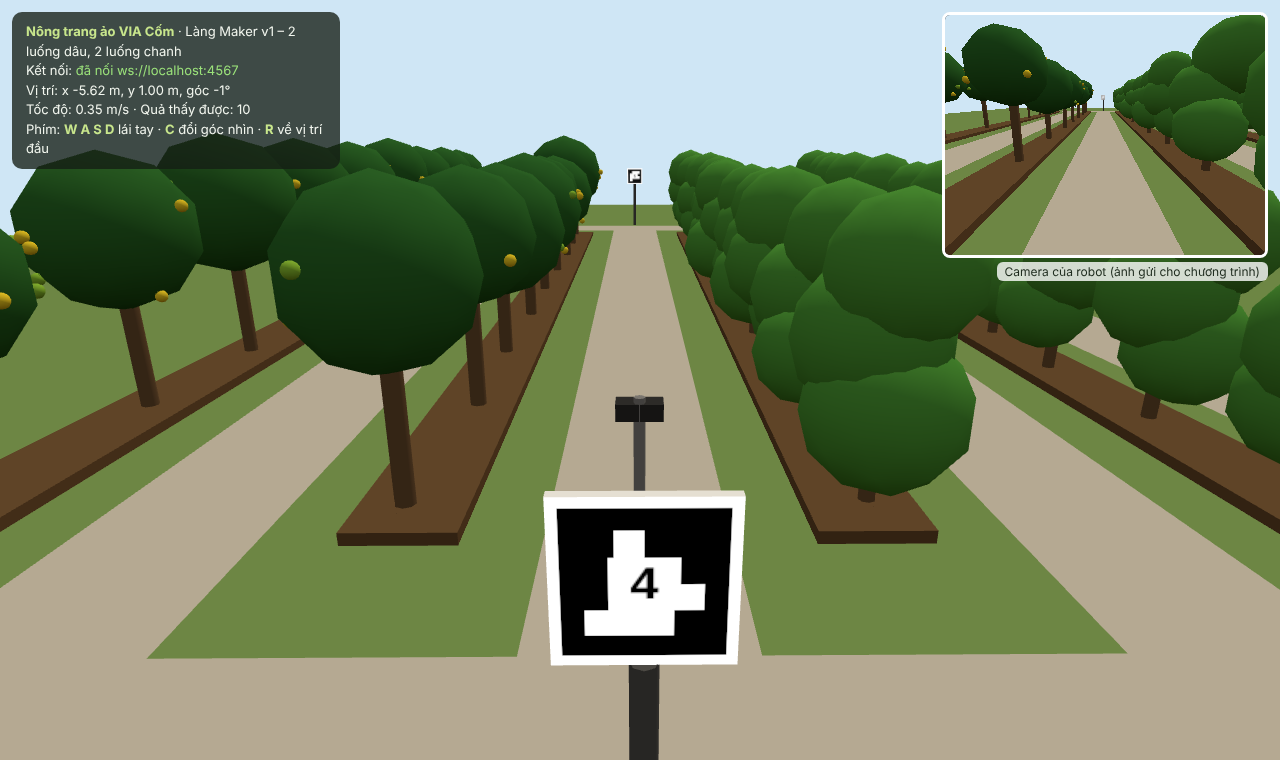
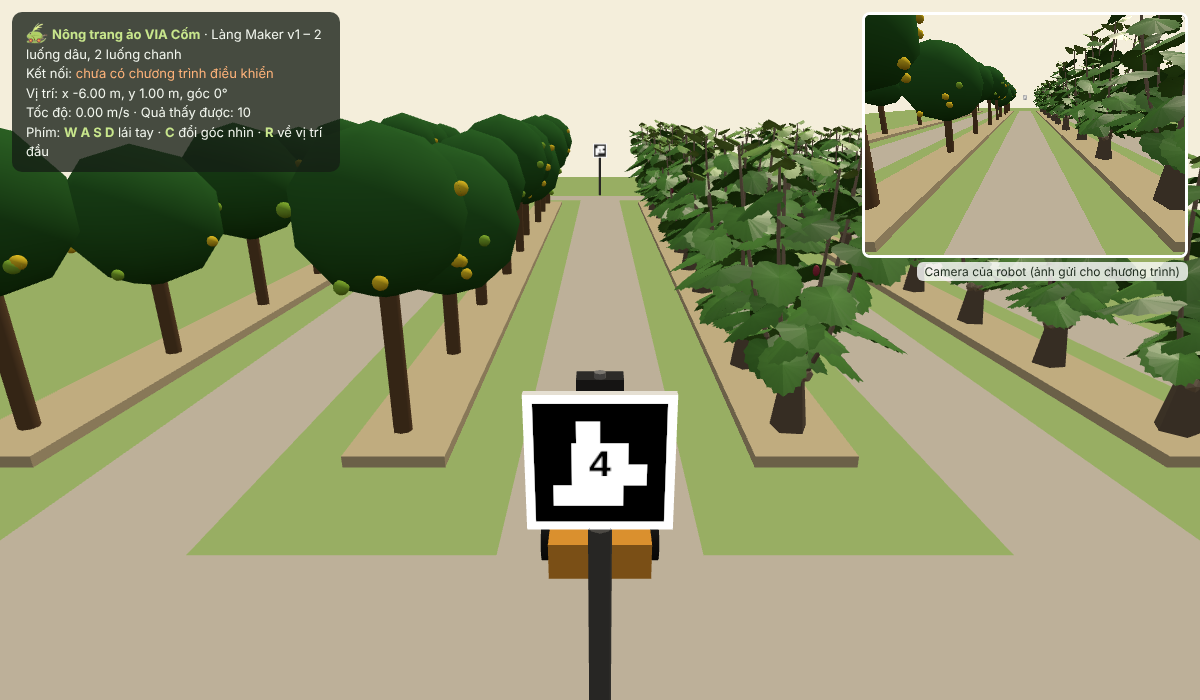
Nông trang ảo: cây dâu theo kiểu vườn dâu BLUESILK VR
Thay bụi dâu hình cầu bằng cây dâu low-poly lấy từ BLUESILK VR: gốc đốn thấp,
cành xoè, lá hình tim mép răng cưa mọc so le, lá non ở ngọn, quả dâu tím.
Cả vườn dâu vẽ bằng 4 InstancedMesh. Nền vườn đổi sang bảng màu pastel cùng tông.
Robot mẫu vẫn đi hết luống, lệch ngang dưới 3 cm.

Claude-Session: https://claude.ai/code/session_01P1Bo89Z93YM4XeHS9e6YVy

diff --git a/sim/web/farm.js b/sim/web/farm.js
@@ -8,6 +8,7 @@
 // toạ độ đi qua hàm P().
 
 import * as THREE from './vendor/three.module.min.js';
+import { mulberryPlant, mulberryLeaf, PALETTE } from './mulberry.js';
 
 const params = new URLSearchParams(location.search);
 const MAP_URL = params.get('map') || '../maps/lang_maker_v1.json';
@@ -45,7 +46,7 @@ const canvas = document.getElementById('view');
 const renderer = new THREE.WebGLRenderer({ canvas, antialias: true, preserveDrawingBuffer: true });
 renderer.setPixelRatio(Math.min(devicePixelRatio, 2));
 const scene = new THREE.Scene();
-scene.background = new THREE.Color(0xcfe6f5);
+scene.background = new THREE.Color(PALETTE.skyHorizon);
 scene.add(new THREE.HemisphereLight(0xffffff, 0x8a7a5a, 1.1));
 const sun = new THREE.DirectionalLight(0xfff2d6, 1.6);
 sun.position.set(6, 12, 4);
@@ -96,18 +97,18 @@ function tagTexture(id) {
 function buildFarm(map) {
   world.map = map;
   const [sx, sy] = map.size;
-  const ground = new THREE.Mesh(new THREE.PlaneGeometry(sx + 8, sy + 8), new THREE.MeshLambertMaterial({ color: 0x7a9a55 }));
+  const ground = new THREE.Mesh(new THREE.PlaneGeometry(sx + 8, sy + 8), new THREE.MeshLambertMaterial({ color: PALETTE.grass }));
   ground.rotation.x = -Math.PI / 2; scene.add(ground);
 
   for (const p of map.paths || []) { // lối đi nền cứng
     const [x0, y0] = p.from, [x1, y1] = p.to;
     const len = Math.hypot(x1 - x0, y1 - y0);
-    const m = new THREE.Mesh(new THREE.PlaneGeometry(len + p.width, p.width), new THREE.MeshLambertMaterial({ color: 0xc9c2b2 }));
+    const m = new THREE.Mesh(new THREE.PlaneGeometry(len + p.width, p.width), new THREE.MeshLambertMaterial({ color: PALETTE.path }));
     m.rotation.x = -Math.PI / 2; m.rotation.z = Math.atan2(y1 - y0, x1 - x0);
     m.position.copy(P((x0 + x1) / 2, (y0 + y1) / 2, 0.005)); scene.add(m);
   }
 
-  const trunks = [], leavesLemon = [], leavesMul = [], ripe = [], unripe = [], soil = [];
+  const trunks = [], leavesLemon = [], leavesMul = [], ripe = [], unripe = [], soil = [], mulberries = [];
   const r = rng(2026);
   for (const row of map.rows || []) {
     const [x0, y0] = row.start, [x1, y1] = row.end;
@@ -126,14 +127,17 @@ function buildFarm(map) {
           const fx = x + Math.cos(az) * Math.cos(el) * fr, fy = y + Math.sin(az) * Math.cos(el) * fr, fz = h + Math.sin(el) * fr;
           (r() > 0.35 ? ripe : unripe).push({ x: fx, y: fy, z: fz, r: 0.035 });
         }
-      } else { // dâu: bụi cao, nhiều tầng lá
-        trunks.push({ x, y, h: 0.5, r: 0.04 });
-        for (let j = 0; j < 3; j++) leavesMul.push({ x: x + (r() - 0.5) * 0.2, y: y + (r() - 0.5) * 0.2, z: 0.5 + j * 0.3, r: 0.30 + r() * 0.08 });
+      } else { // dâu: gốc đốn thấp, cành xoè, lá hình tim (kiểu vườn dâu BLUESILK)
+        const plant = mulberryPlant(r);
+        mulberries.push({ x, y, rot: r() * Math.PI * 2, plant });
+        world.obstacles.push({ x, y, r: 0.10 });
+        // vùng tán lá dùng để xét che khuất khi gắn nhãn quả
+        for (let j = 0; j < 2; j++) leavesMul.push({ x, y, z: 0.75 + j * 0.45, r: 0.32 });
       }
     }
   }
 
-  instanced(new THREE.BoxGeometry(1, 0.06, 0.5), 0x6b4f32, soil, (s, m) => {
+  instanced(new THREE.BoxGeometry(1, 0.06, 0.5), PALETTE.earthDark, soil, (s, m) => {
     m.compose(P(s.x, s.y, 0.03), new THREE.Quaternion().setFromAxisAngle(new THREE.Vector3(0, 1, 0), s.a), new THREE.Vector3(s.len + 0.6, 1, 1));
   });
   instanced(new THREE.CylinderGeometry(1, 1, 1, 8), 0x6e5338, trunks, (t, m) => {
@@ -142,7 +146,7 @@ function buildFarm(map) {
   const ball = new THREE.IcosahedronGeometry(1, 1);
   const place = (s, m) => m.compose(P(s.x, s.y, s.z), new THREE.Quaternion(), new THREE.Vector3(s.r, s.r, s.r));
   instanced(ball, 0x2f6b2c, leavesLemon, place);
-  instanced(ball, 0x4f9a3a, leavesMul, place);
+  drawMulberries(mulberries);
   instanced(new THREE.SphereGeometry(1, 10, 8), 0xf3d32b, ripe, place);
   instanced(new THREE.SphereGeometry(1, 10, 8), 0x8fc43a, unripe, place);
 
@@ -164,6 +168,41 @@ function buildFarm(map) {
     world.tags.push({ id: t.id, x, y });
   }
   document.getElementById('mapname').textContent = map.name || '';
+}
+
+// Vẽ cả vườn dâu bằng 4 InstancedMesh: đoạn cành, u gốc, lá, quả.
+function drawMulberries(list) {
+  if (!list.length) return;
+  const segs = [], knobs = [], leaves = [], fruits = [];
+  const m = new THREE.Matrix4(), base = new THREE.Matrix4(), q = new THREE.Quaternion();
+  const up = new THREE.Vector3(0, 1, 0), d = new THREE.Vector3(), v = new THREE.Vector3(), s = new THREE.Vector3();
+  for (const it of list) {
+    base.compose(P(it.x, it.y, 0.06), q.setFromAxisAngle(up, it.rot), s.set(1, 1, 1));
+    for (const g of it.plant.segs) segs.push({ g, base: base.clone() });
+    for (const k of it.plant.knobs) knobs.push({ k, base: base.clone() });
+    for (const l of it.plant.leaves) leaves.push({ l, base: base.clone() });
+    for (const f of it.plant.fruits) fruits.push({ f, base: base.clone() });
+  }
+  const mat = opts => new THREE.MeshStandardMaterial({ flatShading: true, roughness: 0.9, metalness: 0, ...opts });
+  const fill = (geo, material, items, place, cast = true) => {
+    const mesh = new THREE.InstancedMesh(geo, material, items.length);
+    const c = new THREE.Color();
+    items.forEach((it, i) => { place(it, m); mesh.setMatrixAt(i, m); mesh.setColorAt(i, c.set(it.color)); });
+    mesh.castShadow = cast; scene.add(mesh); return mesh;
+  };
+  // cành: trụ đơn vị (cao 1, từ y=0 tới y=1) kéo giữa hai điểm, thon dần
+  const rod = new THREE.CylinderGeometry(0.6, 1, 1, 5); rod.translate(0, 0.5, 0);
+  fill(rod, mat({}), segs.map(x => ({ ...x, color: x.g.color })), (x, out) => {
+    const a = new THREE.Vector3(...x.g.p0), b = new THREE.Vector3(...x.g.p1);
+    d.subVectors(b, a); const len = d.length();
+    out.compose(a, new THREE.Quaternion().setFromUnitVectors(up, d.normalize()), v.set(x.g.r0, len, x.g.r0)).premultiply(x.base);
+  });
+  fill(new THREE.IcosahedronGeometry(1, 0), mat({}), knobs.map(x => ({ ...x, color: x.k.color })), (x, out) =>
+    out.compose(new THREE.Vector3(...x.k.p), q.identity(), v.setScalar(x.k.s)).premultiply(x.base));
+  fill(mulberryLeaf(), mat({ vertexColors: true, roughness: 0.42, side: THREE.DoubleSide }), leaves.map(x => ({ ...x, color: x.l.color })), (x, out) =>
+    out.compose(new THREE.Vector3(...x.l.p), x.l.q, v.setScalar(x.l.s)).premultiply(x.base));
+  fill(new THREE.IcosahedronGeometry(1, 1), mat({ roughness: 0.6 }), fruits.map(x => ({ ...x, color: x.f.color })), (x, out) =>
+    out.compose(new THREE.Vector3(...x.f.p), q.identity(), v.set(0.016, 0.027, 0.016)).premultiply(x.base));
 }
 
 // ---------------------------------------------------------------- robot

diff --git a/sim/web/mulberry.js b/sim/web/mulberry.js
@@ -1,0 +1,101 @@
+// Cây dâu tằm low-poly cho nông trang ảo VIA Cốm.
+// Kiểu dáng lấy từ vườn dâu của BLUESILK VR (github.com/tuanln/bluesilk-vr, src/world/style.js):
+// gốc đốn thấp sát đất, 5–7 cành mảnh xoè như bình hoa, lá to hình tim mép răng cưa
+// mọc so le dọc cành, ngọn có 2 lá non dựng lên, vài quả dâu tím đỏ.
+//
+// Mọi toạ độ ở đây là hệ three.js cục bộ của một gốc (y lên trên, gốc cây tại 0,0,0).
+// Hàm trả về danh sách đoạn cành, lá, quả để farm.js vẽ chung bằng InstancedMesh
+// cho cả vườn: hàng nghìn lá chỉ tốn một lệnh vẽ.
+
+import * as THREE from './vendor/three.module.min.js';
+
+export const MULBERRY_COLORS = {
+  bark: 0x8e7d6b, barkDark: 0x6f604f, knob: 0x9c8a74,
+  leaf: 0x5c9c42, leafDark: 0x467f33, leafYoung: 0x8fc25e,
+  fruit: [0x4f1b38, 0x7e2344, 0xa8364f],
+};
+
+// Bảng màu pastel của BLUESILK, dùng cho nền vườn để cùng tông với cây dâu.
+export const PALETTE = {
+  grass: 0xa9c77a, grassDark: 0x8db064, earth: 0xe9e1c7, earthDark: 0xd6c59c,
+  path: 0xd2cabb, skyHorizon: 0xf4eedb, leaf: 0x7faf5a, leafDark: 0x6e9e4c,
+};
+
+// Lá dâu: gốc lõm hình tim, hai thuỳ tròn, mép răng cưa, mũi nhọn; dài `length`.
+// Mặt lá nằm trong mặt xy (cuống ở gốc toạ độ, mũi lá hướng +y), gân giữa gập nhẹ,
+// mũi rủ. Màu đỉnh sáng ở gân giữa, sẫm dần ra mép.
+export function mulberryLeaf({ length = 0.26 } = {}) {
+  const half = [[0, 0.02], [0.04, -0.012], [0.075, 0.004], [0.092, 0.045], [0.088, 0.095],
+    [0.07, 0.14], [0.045, 0.178], [0.02, 0.205], [0, 0.225]];
+  const right = [half[0]];
+  for (let k = 1; k < half.length; k++) {
+    const [ax, ay] = half[k - 1], [bx, by] = half[k];
+    if (k > 1 && k < half.length - 1) { // một răng cưa chĩa về phía mũi lá
+      const dx = bx - ax, dy = by - ay, L = Math.hypot(dx, dy) || 1;
+      right.push([ax + dx * 0.65 + (dy / L) * 0.012, ay + dy * 0.65 - (dx / L) * 0.012]);
+    }
+    right.push([bx, by]);
+  }
+  const loop = [...right, ...right.slice(1, -1).reverse().map(([x, y]) => [-x, y])];
+  const k = length / 0.225, c = [0, 0.09];
+  const lift = (x, y) => [x * k, y * k + 0.03, (-Math.abs(x) * 0.35 - (y / 0.225) ** 2 * 0.035) * k];
+  const pos = [], col = [];
+  for (let i = 0; i < loop.length; i++) {
+    const a = loop[i], b = loop[(i + 1) % loop.length];
+    for (const [[x, y], shade] of [[c, 1], [a, 0.8], [b, 0.8]]) { pos.push(...lift(x, y)); col.push(shade, shade, shade); }
+  }
+  const g = new THREE.BufferGeometry();
+  g.setAttribute('position', new THREE.Float32BufferAttribute(pos, 3));
+  g.setAttribute('color', new THREE.Float32BufferAttribute(col, 3));
+  g.computeVertexNormals();
+  return g;
+}
+
+// Một gốc dâu. `r` là hàm ngẫu nhiên tất định (cùng seed thì cùng cây).
+// `spreadScale` thu hẹp tán để cây không lấn ra lối đi của robot.
+export function mulberryPlant(r, { height = 1.5, spreadScale = 0.7 } = {}) {
+  const C = MULBERRY_COLORS, segs = [], knobs = [], leaves = [], fruits = [];
+  const stumpH = 0.24 + r() * 0.06;
+  segs.push({ p0: [0, 0, 0], p1: [0, stumpH, 0], r0: 0.1, r1: 0.07, color: C.barkDark });
+  for (let i = 0; i < 4; i++) {
+    const a = (i / 4) * Math.PI * 2 + r();
+    knobs.push({ p: [Math.cos(a) * 0.05, stumpH - 0.01 + r() * 0.03, Math.sin(a) * 0.05], s: 0.04 + r() * 0.015, color: C.knob });
+  }
+  const n = 5 + Math.floor(r() * 3);
+  const bez = (a, b, c, t) => a.map((v, i) => (1 - t) ** 2 * v + 2 * (1 - t) * t * b[i] + t * t * c[i]);
+  let fruitsLeft = 4 + Math.floor(r() * 3);
+  for (let s = 0; s < n; s++) {
+    const a = (s / n) * Math.PI * 2 + (r() - 0.5) * 0.7;
+    const ca = Math.cos(a), sa = Math.sin(a);
+    const spread = (0.28 + r() * 0.26) * spreadScale, H = height * (0.8 + r() * 0.2);
+    const p0 = [ca * 0.05, stumpH, sa * 0.05];
+    const p1 = [ca * spread * 0.75, stumpH + (H - stumpH) * 0.3, sa * spread * 0.75];
+    const p2 = [ca * spread, H, sa * spread];
+    const SEG = 4;
+    for (let k = 0; k < SEG; k++) {
+      const t0 = k / SEG, t1 = (k + 1) / SEG;
+      segs.push({ p0: bez(p0, p1, p2, t0), p1: bez(p0, p1, p2, t1), r0: 0.017 - t0 * 0.009, r1: 0.017 - t1 * 0.009, color: k ? C.bark : C.barkDark });
+    }
+    // lá so le (lệch ~144° mỗi lá), to nhất ở giữa cành; ngọn có 2 lá non dựng lên
+    const m = 7 + Math.floor(r() * 3);
+    let phi = a + r() * Math.PI;
+    for (let j = 0; j < m + 2; j++) {
+      const young = j >= m;
+      const t = young ? 0.97 + (j - m) * 0.02 : 0.28 + 0.66 * (j / (m - 1));
+      const p = bez(p0, p1, p2, Math.min(1, t));
+      phi += 2.51;
+      const droop = young ? -0.5 : 0.25 + r() * 0.45 - t * 0.15;
+      const sc = young ? 0.45 + r() * 0.1 : 0.8 + 0.4 * Math.sin(Math.PI * t) + (r() - 0.5) * 0.15;
+      const q = new THREE.Quaternion().setFromEuler(new THREE.Euler(0, -phi - Math.PI / 2, 0))
+        .multiply(new THREE.Quaternion().setFromEuler(new THREE.Euler(-Math.PI / 2 - droop, 0, 0)))
+        .multiply(new THREE.Quaternion().setFromEuler(new THREE.Euler(0, (r() - 0.5) * 0.6, 0)));
+      const color = young ? C.leafYoung : r() < 0.55 ? C.leaf : C.leafDark;
+      leaves.push({ p, q, s: sc, color });
+      if (!young && fruitsLeft > 0 && t > 0.4 && t < 0.85 && r() < 0.3) { // quả dâu dưới nách lá
+        fruitsLeft--;
+        fruits.push({ p: [p[0] + Math.cos(phi) * 0.04, p[1] - 0.055, p[2] + Math.sin(phi) * 0.04], color: C.fruit[Math.floor(r() * 3)] });
+      }
+    }
+  }
+  return { segs, knobs, leaves, fruits, height };
+}

diff --git a/docs/SIMULATION.md b/docs/SIMULATION.md
@@ -64,6 +64,10 @@ python tools/run_sim.py --map ../maps/ten_ban_do.json
 
 Số đo trong `lang_maker_v1.json` là giả định, cần thay bằng số đo thật ở Làng Maker.
 
+### Kiểu cây dâu
+
+Cây dâu lấy kiểu dáng từ vườn dâu nuôi tằm của dự án [BLUESILK VR](https://github.com/tuanln/bluesilk-vr): gốc đốn thấp sát đất, 5–7 cành mảnh xoè như bình hoa, lá to hình tim mép răng cưa mọc so le, ngọn có lá non, vài quả dâu tím. Nền vườn dùng cùng bảng màu pastel. Mã ở `sim/web/mulberry.js`. Cả vườn dâu chỉ vẽ bằng 4 lớp hình lặp lại (cành, u gốc, lá, quả), nên máy yếu vẫn chạy được.
+
 ## Nối với ROS 2
 
 ```bash
